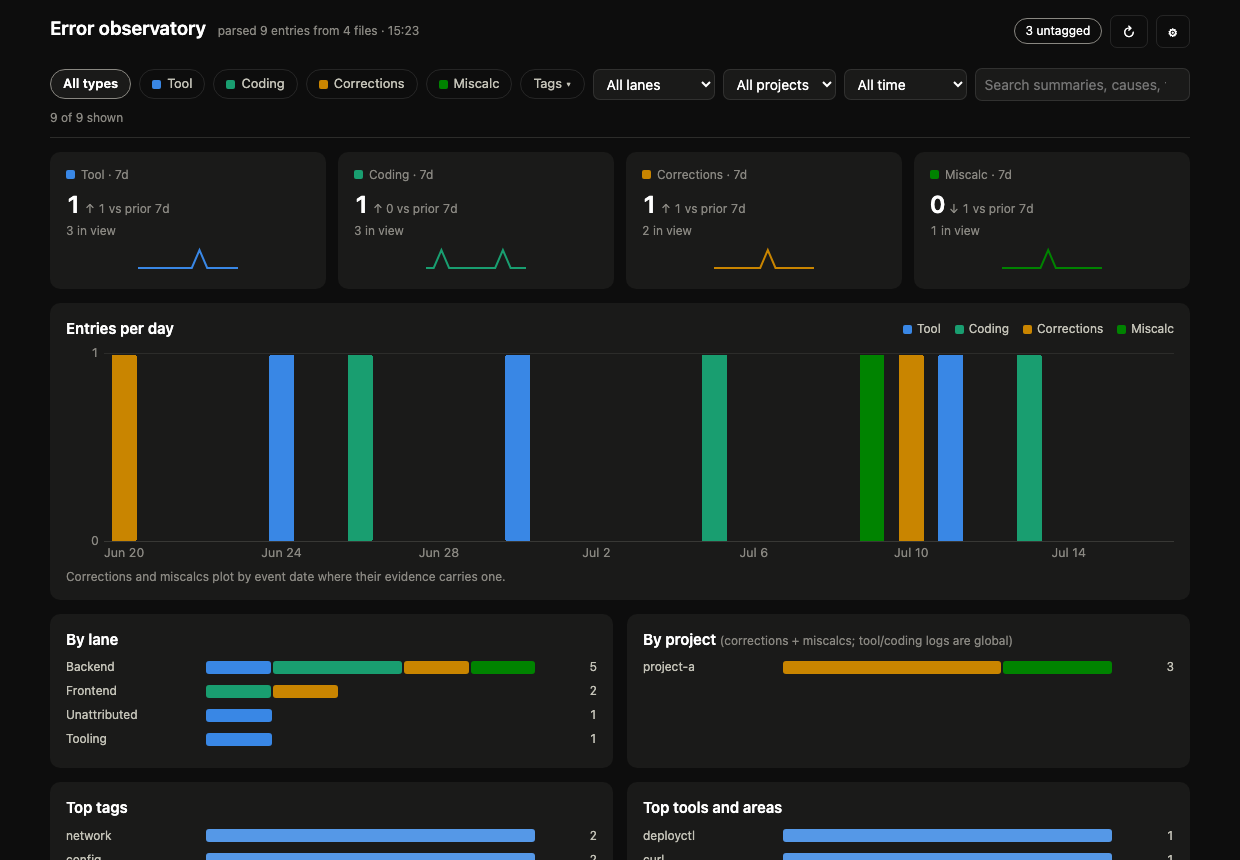
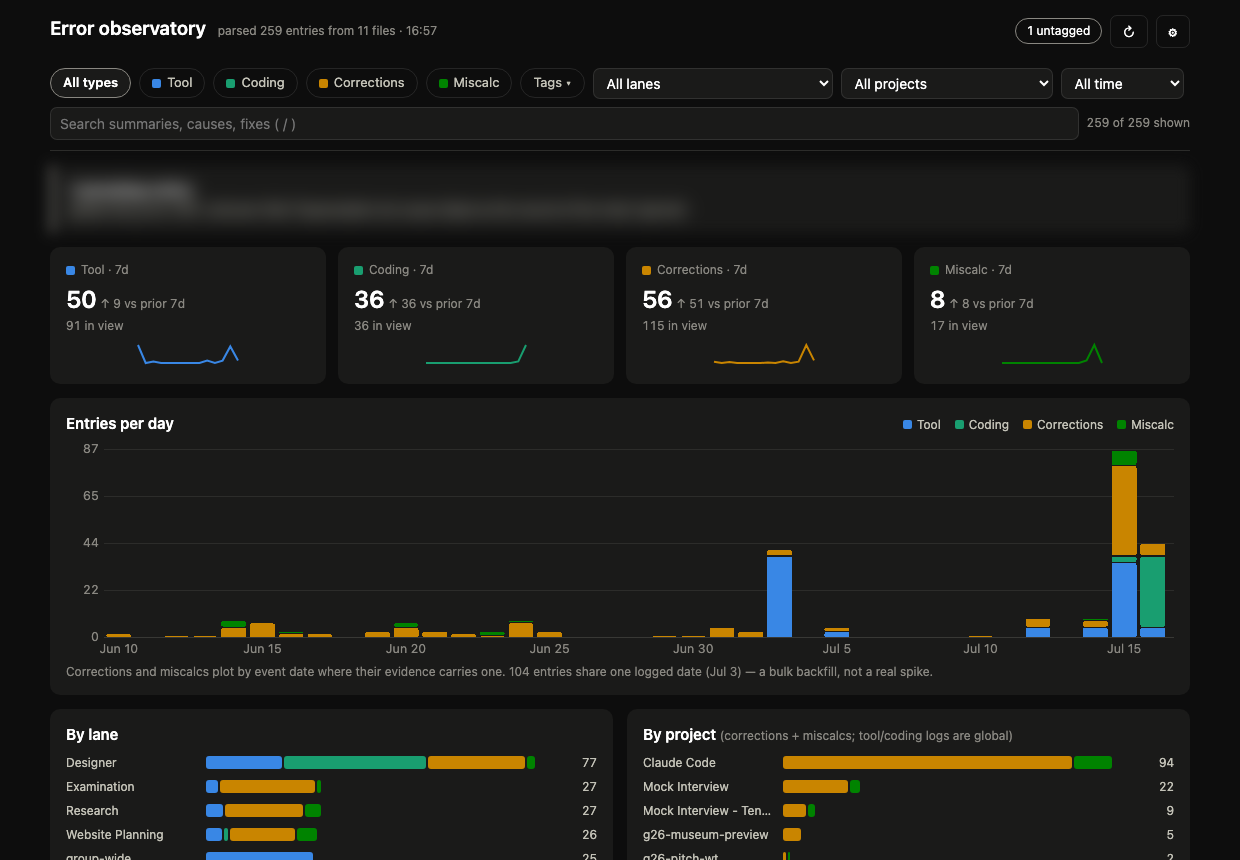
Refresh README captures: live dashboard with register text redacted

diff --git a/README.md b/README.md
@@ -4,7 +4,7 @@ A local dashboard over markdown issue registers — tool errors, coding errors, 
 
 I log every resolved tool failure, coding defect, corrected assumption, and numeric slip into running markdown registers, so a mistake paid for once is never paid for twice. logboard turns those files into trends, hot-spots, and a searchable console.
 
-![Dashboard in light mode, populated with synthetic demo data](docs/demo-light.png)
+![Dashboard in light mode — a live system with 259 entries; register text is redacted in the capture](docs/demo-light.png)
 
 ## Quickstart
 
@@ -20,7 +20,7 @@ That's it. The config is saved to `roots.json` next to serve.py — gitignored, 
 
 Dark mode follows your system:
 
-![Dashboard in dark mode](docs/demo-dark.png)
+![Dashboard in dark mode — same live system, register text redacted](docs/demo-dark.png)
 
 ## What it shows
 
@@ -86,6 +86,6 @@ The frontend is one static file. Host `index.html` anywhere, open its settings p
 
 - The server binds 127.0.0.1. It writes its own `roots.json`, its `tag-edits.log` journal, and — only through the tag editor — the single `Tags` line of one register entry at a time: lock-guarded, written atomically, re-parsed after every write with automatic restore on any anomaly, and journaled. Nothing else in a register is ever touched. Tag edits are refused for cross-site origins even when `allowed_origins` grants read access, and only canon tags can be added.
 - This repo ships pre-commit and pre-push guards that refuse any path outside the tracked allowlist and any content that looks like a home-directory path or a real register entry. Enable them per clone: `git config core.hooksPath .githooks`
-- The screenshots above are synthetic demo data.
+- The dashboard screenshots are captures of a live system with all register text (summaries, causes, notices) blurred before publishing; the setup screenshot uses synthetic demo data. Numbers, charts, tags, and lane/project labels are shown as-is.
 
 MIT license.
